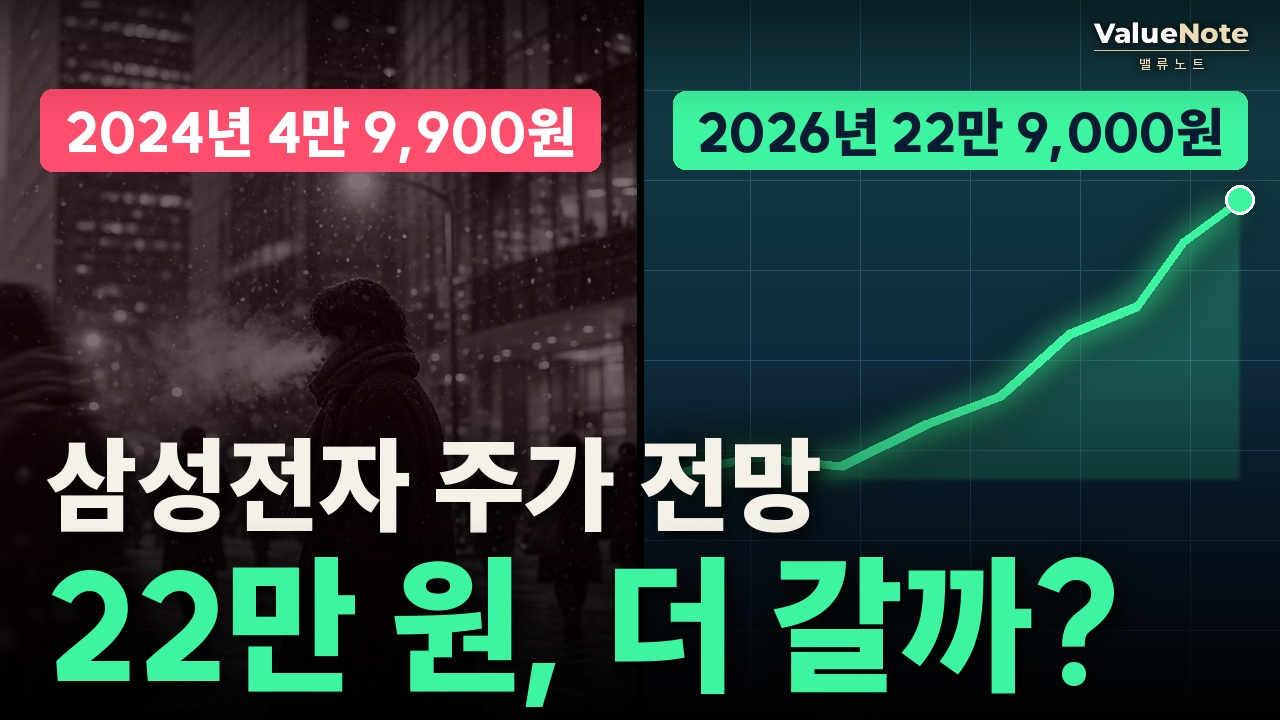
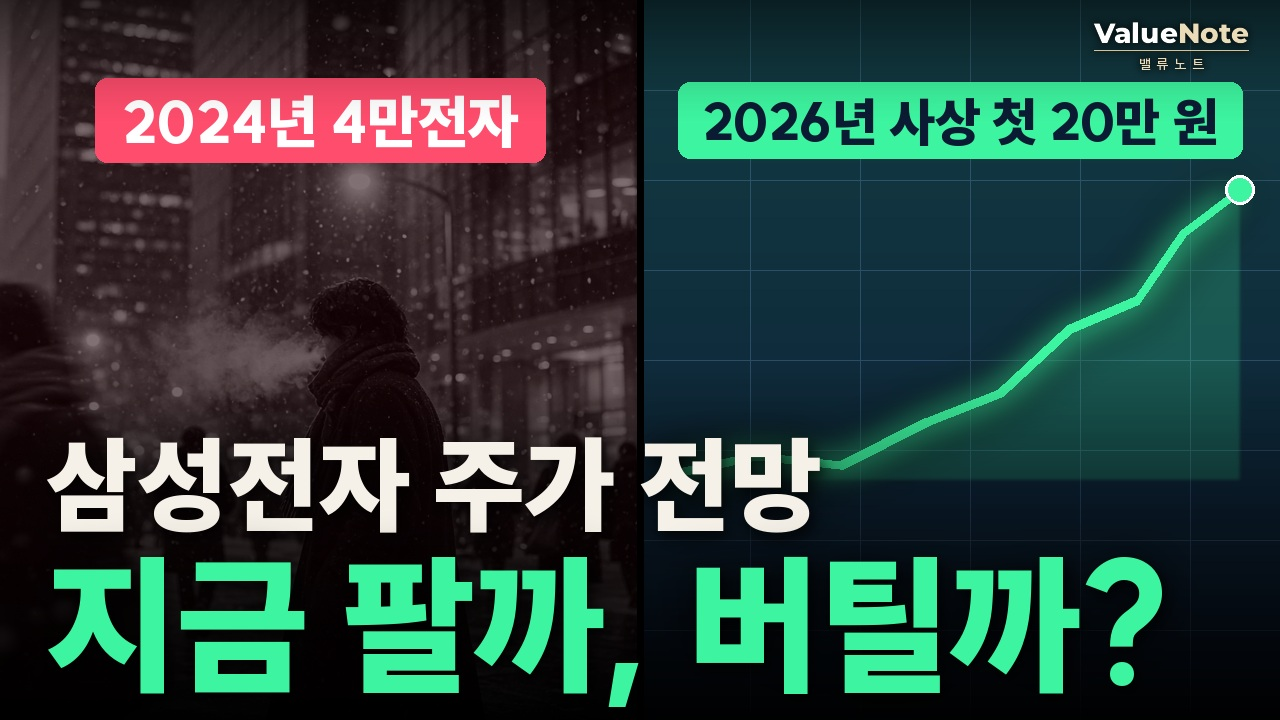
삼성전자 편 B안: 현재가 대신 이정표·보유자 질문으로, 썸네일 현재가 표기 금지 규칙 추가
Claude-Session: https://claude.ai/code/session_01KaYReKb4aYXpWxfp8UoCvu

diff --git a/scripts/youtube/long/FORMAT.md b/scripts/youtube/long/FORMAT.md
@@ -470,6 +470,7 @@
 - **좌우 대비형(`versus`)**: 두 라벨("1998 부도" / "2026 시총 8조")을 같은 줄에. 왼쪽 = 망한 장면(흑백 + 빨간 하락선, 실제로 떨어진 얘기일 때만), 오른쪽 = 네이비 + 초록 상승 그래프, 제품은 오른쪽에 작게. 3안 중 1안 이상 쓴다.
 - 제품·회사가 무엇인지 바로 보이게(실물 패키지·제품 사진). 로고는 사진이 비는 쪽 위(왼쪽 위 기본, 띠·대비형은 오른쪽 위).
 - 썸네일 테스트 중에는 제목은 고정(썸네일만 바꿔야 어떤 그림이 이겼는지 안다).
+- **금방 바뀌는 현재 주가를 썸네일에 쓰지 않는다**(2026-11-06 대표님: 삼성전자가 18만 9,600원인데 "22만 9,000원, 더 갈까?"가 남아 있던 것 지적). 썸네일은 영상이 올라간 뒤에도 계속 보이므로, 날짜가 박힌 이정표("2024년 4만전자", "2026년 사상 첫 20만 원")나 보유자 질문("지금 팔까, 버틸까?")으로 쓴다.
 
 ## ★ 엔딩·썸네일 (2026-11-06 15:46 대표님, AI 대폭락 편 검수)
 - 엔딩 화면에 "다음 영상: ○○ 편"처럼 특정 영상 이름을 쓰지 않는다(end 장면 `sub`는 비우고 `sub_at` 없음, `next`에 thumb/title을 넣지 않는다). 관련 영상은 유튜브 스튜디오 최종 화면 요소로, 그때그때 맞는 영상으로 바꿔 붙인다. 오른쪽 칸은 최종 화면 요소 자리로 비워 둔다.
